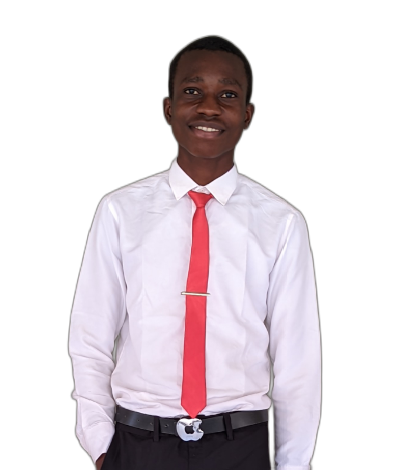
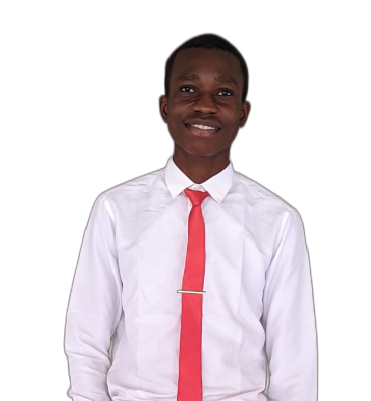
edited pictures

Changed region(s): [[0.1482, 0.0599, 0.8598, 1.0], [0.6819, 0.5387, 0.7116, 0.5686], [0.3854, 0.4788, 0.4151, 0.5087]]

diff --git a/src/components/testimonials/Testimonial.jsx b/src/components/testimonials/Testimonial.jsx
@@ -1,23 +1,10 @@
 import React from 'react'
+import Slider from "react-slick";
 import B from '../../assets/b.jpg'
 import C from '../../assets/c.jpg'
 import D from '../../assets/d.jpg'
 
 import './testimonial.css'
-
-// import {  useState } from 'react';
-
-// Import Swiper React components
-import { Swiper, SwiperSlide } from 'swiper/react';
-
-// Import Swiper styles
-import 'swiper/css';
-import 'swiper/css/pagination';
-
-
-// import required modules
-import { Autoplay, Pagination} from 'swiper/modules';
-
 
 const data = [
   {
@@ -43,44 +30,37 @@ const data = [
 
 
 const Testimonial = () => {
-  return (
-    <section id="testimonials">
-      <h5>Client Reviews</h5>
-      <h1>Testimonials</h1>
-
-      <Swiper className="container testimonials__container mySwiper"
-      spaceBetween={30}
-        centeredSlides={true}
-        autoplay={{
-          delay: 4500,
-          disableOnInteraction: false,
-        }}
-        pagination={{
-          clickable: true,
-        }}
-        navigation={true}
-        modules={[Autoplay, Pagination]}
-        
-      >
-       {
-        data.map(({avatar, name, image, review}, index) =>{
-          return(
-            <SwiperSlide key={index} className="testimonial">
-            <div className="client__avatar">
-              <img src={image} alt="" />
-            </div>
-              <h5 className="client__name">{name}</h5>
-              <p className="client__review">
-                {review}
-              </p>
-          </SwiperSlide>
-          )
-        })
-       }
-     
-      </Swiper>
-    </section>
-  )
+  const SimpleSlider =() => {
+    var settings = {
+      dots: true,
+      infinite: true,
+      speed: 500,
+      slidesToShow: 2,
+      slidesToScroll: 1
+    };
+    return (
+      <Slider {...settings}>
+        <div>
+          <h3>1</h3>
+        </div>
+        <div>
+          <h3>2</h3>
+        </div>
+        <div>
+          <h3>3</h3>
+        </div>
+        <div>
+          <h3>4</h3>
+        </div>
+        <div>
+          <h3>5</h3>
+        </div>
+        <div>
+          <h3>6</h3>
+        </div>
+      </Slider>
+    );
+  }
 }
 
 export default Testimonial

diff --git a/src/components/about/About.jsx b/src/components/about/About.jsx
@@ -1,6 +1,7 @@
 import React from 'react'
-import ME from '../../assets/dp.jpg'
-import {Zoom} from 'react-reveal/Zoom'
+import ME2 from '../../assets/Prince.jpg'
+
+// import Zoom from 'react-reveal/Zoom'
 import { FaAward } from 'react-icons/fa'
 import { PiUsersThree } from 'react-icons/pi'
 import { BiSolidFolderOpen } from 'react-icons/bi'
@@ -14,7 +15,7 @@ const About = () => {
       <h2>About Me</h2>
       <div className="container about__container">
         <div className="about__me">
-          <img src={ME} alt="ME" />
+          <img src={ME2} alt="ME" />
         </div>
         <div className="about__content">
           <div className="about__cards">
@@ -35,12 +36,12 @@ const About = () => {
             </article>
 
           </div>
-          <Zoom>
+          <div>
             <p className='animate__animated animate__zoomInRight' data-aos="fade-up-right">
-              Hey! My name is Prince and I'm a web developer, I build responsive web pages and applications with HTML5, CSS3 and Javascript. As a field that is constantly evolving to incorporate new technology, frontend development can reward those who like to learn new things and take up new challenges.
+              Hey! My name is Prince and I'm a web developer, I build responsive web pages and applications with HTML5, CSS3 and Javascript and ReactJS. As a field that is constantly evolving to incorporate new technology, frontend development can reward those who like to learn new things and take up new challenges.
               I'm creative, I'm available for new challenges that can help in problem solving. Also available as a freelancer developer.</p>
             <a href="#contact" className='btn btn-primary'>Let's Talk</a>
-          </Zoom>
+          </div>
         </div>
       </div>
     </section>

diff --git a/src/components/nav/Nav.jsx b/src/components/nav/Nav.jsx
@@ -11,11 +11,11 @@ const Nav = () => {
   const [activeNav, setActiveNav] = useState('#');
   return (
     <nav>
-      <a href="#" onClick={()=> setActiveNav('#')} className={activeNav === '#' ? 'active' : ''}><BiHomeCircle/></a>
-      <a href="#about" onClick={()=> setActiveNav('#about')} className={activeNav === '#about' ? 'active' : ''}><AiOutlineUser/></a>
-      <a href="#experience"onClick={()=> setActiveNav('#experience')} className={activeNav === '#experience' ? 'active' : ''}><BiBook/></a>
-      <a href="#work" onClick={()=> setActiveNav('#work')} className={activeNav === '#work' ? 'active' : ''}><BiSolidFolderOpen/></a>
-      <a href="#contact" onClick={()=> setActiveNav('#contact')} className={activeNav === '#contact' ? 'active' : ''}><FaFacebookMessenger/></a>
+      <a href="#" title="Home" onClick={()=> setActiveNav('#')} className={activeNav === '#' ? 'active' : ''}><BiHomeCircle/></a>
+      <a href="#about" title="About" onClick={()=> setActiveNav('#about')} className={activeNav === '#about' ? 'active' : ''}><AiOutlineUser/></a>
+      <a href="#experience" title="Experience" onClick={()=> setActiveNav('#experience')} className={activeNav === '#experience' ? 'active' : ''}><BiBook/></a>
+      <a href="#work" title="Projects" onClick={()=> setActiveNav('#work')} className={activeNav === '#work' ? 'active' : ''}><BiSolidFolderOpen/></a>
+      <a href="#contact" title='Contact' onClick={()=> setActiveNav('#contact')} className={activeNav === '#contact' ? 'active' : ''}><FaFacebookMessenger/></a>
     </nav >
   )
 }

diff --git a/src/components/portfolio/Portfolio.jsx b/src/components/portfolio/Portfolio.jsx
@@ -6,6 +6,7 @@ import API from '../../assets/portfolio/api.jpg'
 import NESREA from '../../assets/portfolio/nesrea.jpg'
 import PRYBERTO from '../../assets/portfolio/pryberto.jpg'
 import WHATSAPP from '../../assets/portfolio/whatsapp.jpg'
+import JERRY from '../../assets/portfolio/jerry.png'
 
 import './portfolio.css'
 
@@ -37,6 +38,13 @@ const data = [
     title:'Rebuilding Whatsapp User Interface with just HTML and CSS',
     github: 'https://github.com/codes001/Whatsapp-clone.git',
     demo: 'https://whatsapp-web-clone-2.netlify.app/'
+  },
+  {
+    id : 5,
+    image: JERRY,
+    title:'Personal portfolio site for a Data Scientist/ Algoritmetic Trader',
+    github: 'https://github.com/codes001/jerry-inyang.git',
+    demo: 'https://jerry-inyang.netlify.app/'
   }
 ]
 

diff --git a/src/components/contact/contact.jsx b/src/components/contact/contact.jsx
@@ -53,9 +53,9 @@ const Contact = () => {
 
         {/* Beginnning of contact form */}
         <form ref={form} onSubmit={sendEmail} data-aos='fade-up'>
-          <input type='text' placeholder='Your Full Name' name='name' required/>
-          <input type='email' placeholder='Your Email' name='email'/>
-          <textarea name='message' rows='7' placeholder='Your Message' required></textarea>
+          <input type='text' placeholder='Enter your Full Name' name='name' required/>
+          <input type='email' placeholder='Enter your email' name='email'/>
+          <textarea name='message' rows='7' placeholder='Enter your message' required></textarea>
           <button type='submit' className='btn btn-primary'>Send Message</button>
         </form>
       </div>

diff --git a/src/components/portfolio/portfolio.css b/src/components/portfolio/portfolio.css
@@ -1,15 +1,14 @@
 .portfolio__container {
     display: grid;
-    grid-template-columns: repeat(2, 1fr);
-    gap: 2.5rem;
+    grid-template-columns: repeat(3, 1fr);
+       gap: 2rem;
 }
 
 .portfolio__item {
     background: var(--color-bg-variant);
     padding: 2rem 1rem;
     border-radius: 10px;
-    ;
-    border: 2px solid transparent;
+     border: 2px solid transparent;
     transition: var(--transition);
 }
 
@@ -39,7 +38,7 @@
 @media (max-width:1024px) {
     .portfolio__container {
         gap: 1.3rem;
-
+        grid-template-columns: repeat(2,1fr);
     }
 
 

diff --git a/src/components/header/Header.jsx b/src/components/header/Header.jsx
@@ -2,7 +2,7 @@ import React from 'react'
 import './header.css'
 import CTA from './CTA'
 import ME from '../../assets/dp.png'
-import HeaderSocials  from './HeaderSocials'
+import HeaderSocials from './HeaderSocials'
 
 const Header = () => {
   return (
@@ -11,8 +11,8 @@ const Header = () => {
         <h5>Hello, I am</h5>
         <h1>Prince Effiong</h1>
         <h5 className="text-light">Software Developer</h5>
-        <CTA/>
-<HeaderSocials/>
+        <CTA />
+        <HeaderSocials />
         <div className="me">
           <img src={ME} alt="me" />
         </div>

diff --git a/src/index.css b/src/index.css
@@ -21,7 +21,7 @@ html {
 }
 
 body {
-    font-family: 'Bree Serif', serif;
+    font-family: 'Bree Serif', sans-serif;
     background-color: var(--color-bg);
     background-image: url('./assets/bg-texture.png');
     color: var(--color-white);
@@ -39,6 +39,9 @@ body {
     letter-spacing: 1px;
 }
 
+title{
+    color:red;
+}
 /* ======================= GENERAL STYLES ============================ */
 .container {
     width: var(--container-width-lg);

diff --git a/src/components/about/about.css b/src/components/about/about.css
@@ -21,8 +21,11 @@ gap:15%;
 
 .about__me img{
     border-radius: 2rem;
-    transform: rotate(12deg);
-    transition: var(--transition)
+    transform: rotate(15deg);
+    width: 90%;
+    height: 90%;
+   
+        transition: var(--transition)
 }
 
 .about__me img:hover{transform: rotate(0);}
@@ -65,6 +68,7 @@ gap:15%;
 
 .about__content p {
     margin: 2rem 0;
+    text-align: justify;
     color: var(--color-light);
 }
 

diff --git a/src/components/footer/footer.css b/src/components/footer/footer.css
@@ -50,7 +50,7 @@ footer a {
 }
 
 .footer-copyright {
-    margin-bottom: 3rem;
+    margin-bottom: 2rem;
     color: var(--color-bg-variant);
     font-size: 1rem;
 }
